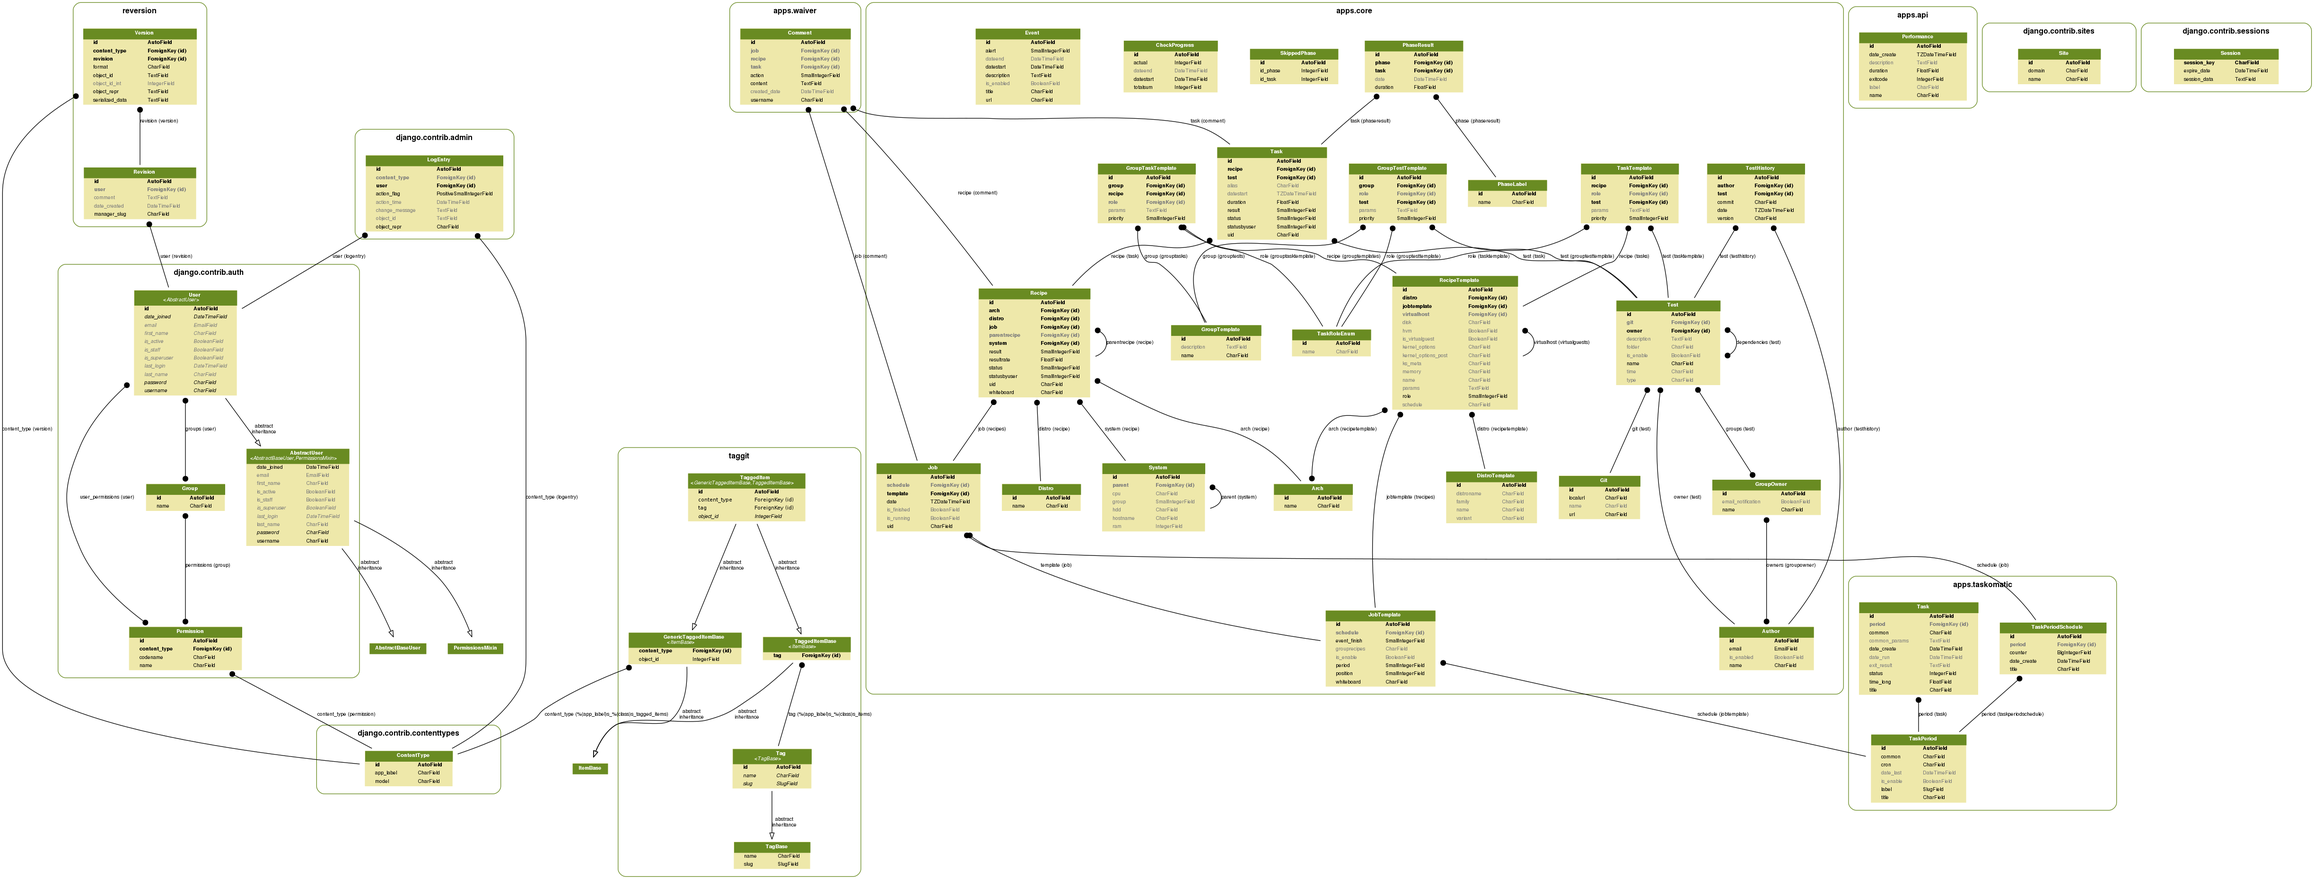
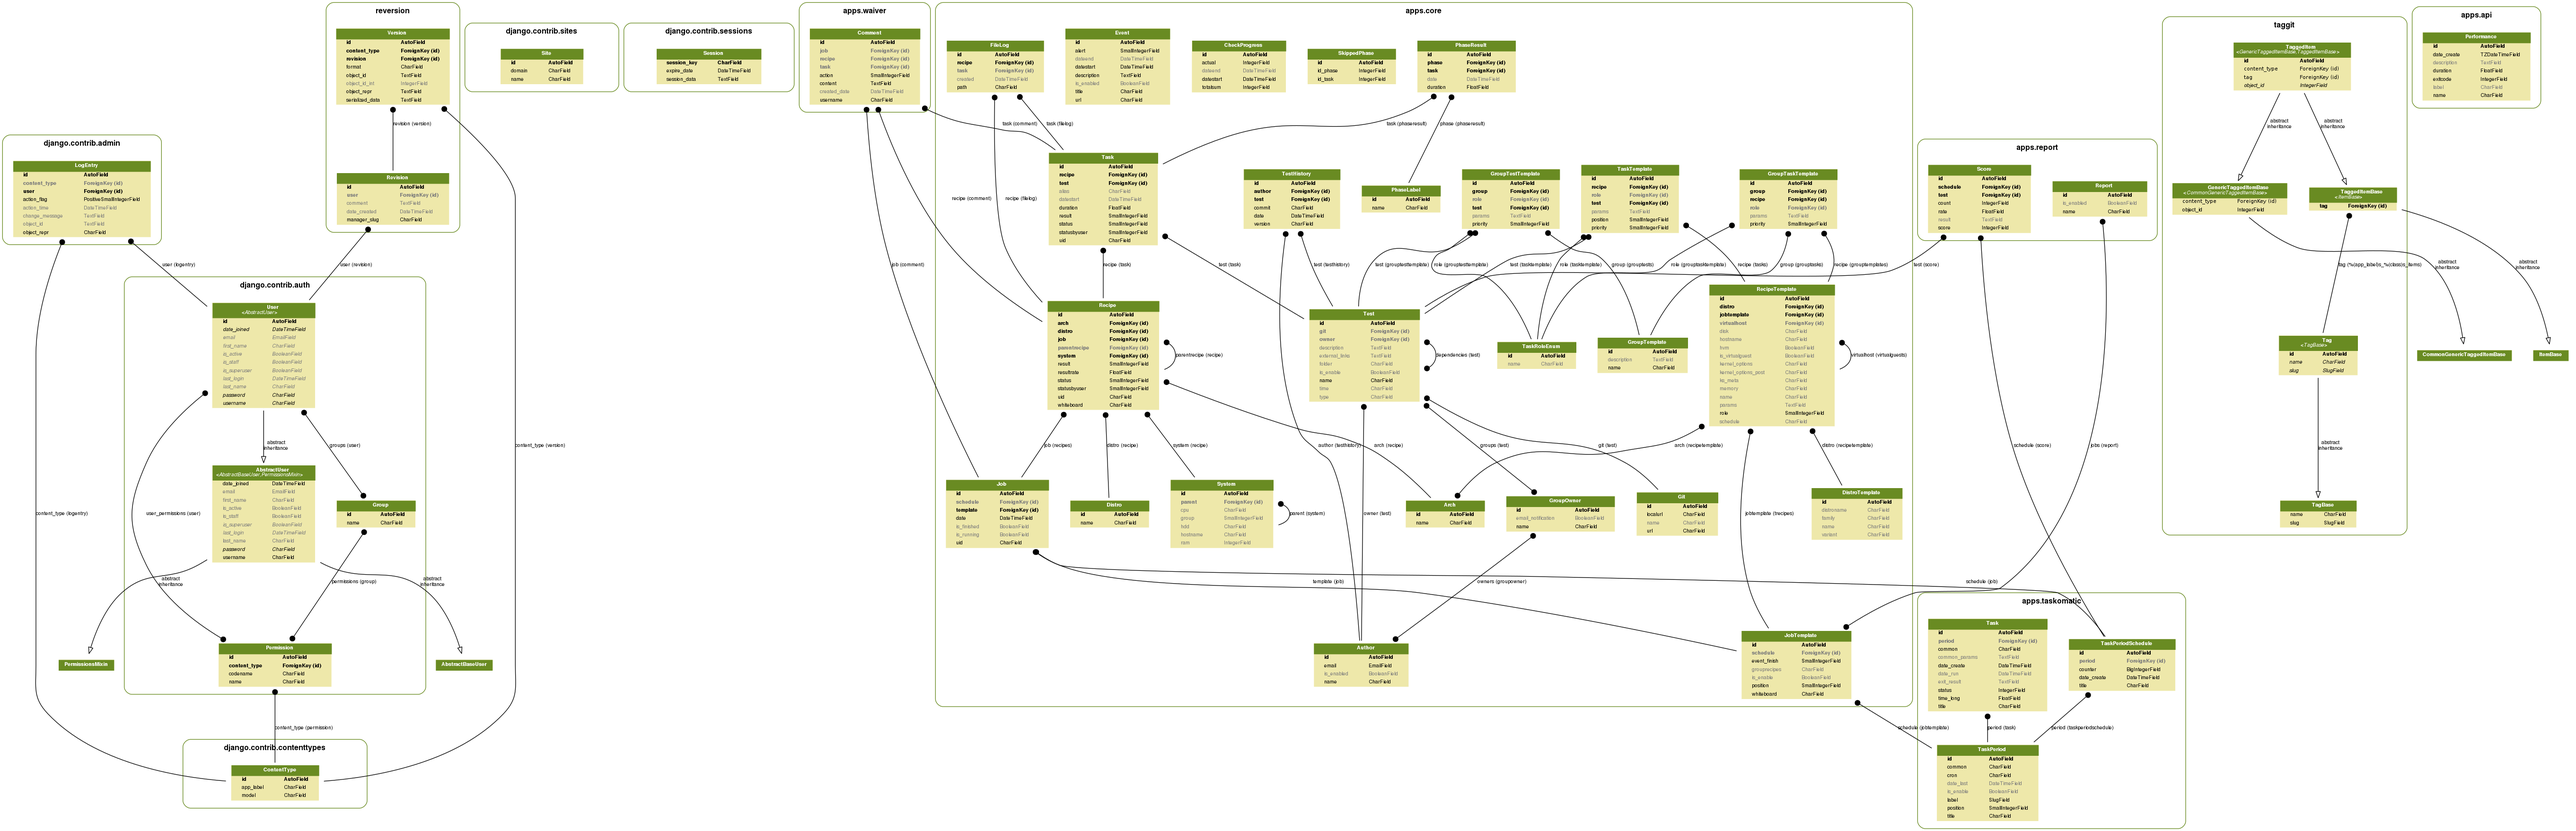
#62 worst test on homepage

diff --git a/tttt/templates/homepage.html b/tttt/templates/homepage.html
@@ -15,6 +15,39 @@
   </div>
 </div>
 
+{% if score %}
+<h1>Score </h1>
+<table class="table table-striped">
+    <tr>
+        <th>Test</th>
+        <th><a href="?order=score">Score</a></th>
+        <th><a href="?order=rate">Rate</a></th>
+        <th>Results</th>
+    </tr>
+    {% for it in score %}
+    <tr>
+      <td width="50%"><a href="{% url 'tests-list' %}?test_id={{it.test.id}}">{{it.test}}</a></td>
+      <td>{{it.score}}</td>
+      <td>{{it.rate|floatformat:2}}</td>
+      <td>
+        <div class="progress" style="height:20px">
+          <div class="progress-bar progress-bar-success" style="width: {{it.get_result.pass}}%">
+            <span class="sr-only">{{it.get_result.pass}}% Complete (success)</span>
+          </div>
+          <div class="progress-bar progress-bar-warning" style="width: {{it.get_result.warning}}%">
+            <span class="sr-only">{{it.get_result.warning}}% Complete (warning)</span>
+          </div>
+          <div class="progress-bar progress-bar-danger" style="width: {{it.get_result.fail}}%">
+            <span class="sr-only">{{it.get_result.fail}}% Complete (danger)</span>
+          </div>
+        </div>
+      </td>
+    </tr>
+    {% endfor %}
+</table>
+{% endif %}
+
+
 {% if networking %}
 <h1>Network <span style="color:red">(in progress)</span></h1>
 <table class="table table-striped">

diff --git a/apps/core/views/tests.py b/apps/core/views/tests.py
@@ -106,6 +106,8 @@ class TestsListView(TemplateView):
             self.filters['group_id'] = parameters.get('group')
         if 'email' in kwargs:
             self.filters['email'] = kwargs.get('email')
+        if 'test_id' in parameters:
+            self.filters['test_id'] = parameters.get('test_id')
         if 'search' in parameters:
             self.filters['email'] = None
             if self.forms['search'].is_valid():
@@ -207,6 +209,8 @@ class TestsListView(TemplateView):
             testFilter["git__id"] = self.filters.get('repo_id')
         if 'group_id' in self.filters:
             testFilter["groups__id"] = self.filters.get('group_id')
+        if 'test_id' in self.filters:
+            testFilter["id"] = self.filters.get('test_id')
         # Load all the Test-s
         # TODO: Why are we ordering these?
         # TODO: Cant we somehow limit this query to return only count of items
@@ -263,7 +267,7 @@ class TestsListView(TemplateView):
             'test__groups__name',
             'id', 'uid', 'result', 'status', 'statusbyuser', 'alias',
             'recipe__id', 'recipe__uid', 'recipe__status', 'recipe__resultrate', 'recipe__whiteboard', 'recipe__statusbyuser',
-            'recipe__arch__name',
+            'recipe__arch__name', 'recipe__result',
             'recipe__distro__name',
             'recipe__job__id', 'recipe__job__uid',
             'recipe__job__template__id', 'recipe__job__template__whiteboard', 'recipe__job__template__grouprecipes',
@@ -291,12 +295,14 @@ class TestsListView(TemplateView):
                         'data': {},
                     }
                 # Populate test's groups
-                if i.test.groups.name not in out_dict[i.test.id]['test__groups__name']:
+                if i.test.groups.name not in out_dict[
+                        i.test.id]['test__groups__name']:
                     out_dict[i.test.id]['test__groups__name'].append(
                         i.test.groups.name)
                 # Populate period schedules (because one test can run in 'Daily
                 # automation' and 'Weekly automation' and...)
-                if i.recipe.job.schedule.period_id not in out_dict[i.test.id]['data']:
+                if i.recipe.job.schedule.period_id not in out_dict[
+                        i.test.id]['data']:
                     title = ''
                     for p in periodschedules[i.recipe.job.schedule.period_id]:
                         if p['id'] == i.recipe.job.schedule.id:
@@ -307,7 +313,8 @@ class TestsListView(TemplateView):
                         'data': {},
                     }
                 # Popupate job (just general info common for more nightly runs)
-                if i.recipe.job.template.id not in out_dict[i.test.id]['data'][i.recipe.job.schedule.period_id]['data']:
+                if i.recipe.job.template.id not in out_dict[i.test.id][
+                        'data'][i.recipe.job.schedule.period_id]['data']:
                     out_dict[i.test.id]['data'][i.recipe.job.schedule.period_id]['data'][i.recipe.job.template.id] = {
                         'template__whiteboard': i.recipe.job.template.whiteboard,
                         'data': {},
@@ -323,18 +330,21 @@ class TestsListView(TemplateView):
                 }
                 recipe_matcher = render_label(
                     tmp, i.recipe.job.template.grouprecipes)
-                if recipe_matcher not in out_dict[i.test.id]['data'][i.recipe.job.schedule.period_id]['data'][i.recipe.job.template.id]['data']:
+                if recipe_matcher not in out_dict[i.test.id]['data'][
+                        i.recipe.job.schedule.period_id]['data'][i.recipe.job.template.id]['data']:
                     out_dict[i.test.id]['data'][i.recipe.job.schedule.period_id]['data'][i.recipe.job.template.id]['data'][recipe_matcher] = {
                         'data': {},
                     }
                 # Populate schedule
-                if i.recipe.job.schedule.id not in out_dict[i.test.id]['data'][i.recipe.job.schedule.period_id]['data'][i.recipe.job.template.id]['data'][recipe_matcher]['data']:
+                if i.recipe.job.schedule.id not in out_dict[i.test.id]['data'][i.recipe.job.schedule.period_id][
+                        'data'][i.recipe.job.template.id]['data'][recipe_matcher]['data']:
                     out_dict[i.test.id]['data'][i.recipe.job.schedule.period_id]['data'][i.recipe.job.template.id]['data'][recipe_matcher]['data'][i.recipe.job.schedule.id] = {
                         'counter': i.recipe.job.schedule.counter,
                         'data': {},
                     }
                 # Populate task (i.e. test run)
-                if i.id not in out_dict[i.test.id]['data'][i.recipe.job.schedule.period_id]['data'][i.recipe.job.template.id]['data'][recipe_matcher]['data'][i.recipe.job.schedule.id]['data']:
+                if i.id not in out_dict[i.test.id]['data'][i.recipe.job.schedule.period_id]['data'][
+                        i.recipe.job.template.id]['data'][recipe_matcher]['data'][i.recipe.job.schedule.id]['data']:
                     out_dict[i.test.id]['data'][i.recipe.job.schedule.period_id]['data'][i.recipe.job.template.id]['data'][recipe_matcher]['data'][i.recipe.job.schedule.id]['data'][i.id] = {
                         'uid': i.uid,
                         'result': i.get_result(),

diff --git a/apps/report/receivers.py b/apps/report/receivers.py
@@ -1,0 +1,39 @@
+
+import json
+
+from django.db.models import Count
+from django.db.models.signals import post_save
+from django.dispatch import receiver
+
+from apps.core.models import EnumResult, Task
+from models import Score
+
+
+@receiver(post_save, sender=Task)
+def recount_test_score(sender, **kwargs):
+    task = kwargs["instance"]
+    if not task.recipe.job.schedule:
+        return
+    results = Task.objects.filter(test=task.test,
+                                  recipe__job__schedule=task.recipe.job.schedule)\
+        .values("result")\
+        .annotate(count=Count('result')).order_by("result")
+
+    score, status = Score.objects.get_or_create(
+        test=task.test, schedule=task.recipe.job.schedule)
+
+    # count score
+    score.score = 0
+    score.count = 0
+    for it in results:
+        score.count += it["count"]
+        if EnumResult.PASS == it["result"]:
+            score.score += 2 * it["count"]
+        elif EnumResult.FAIL == it["result"]:
+            score.score -= 2 * it["count"]
+        elif EnumResult.WARN == it["result"]:
+            score.score -= 1 * it["count"]
+
+    score.rate = (score.score / float(score.count))
+    score.result = json.dumps(list(results))
+    score.save()

diff --git a/apps/report/models.py b/apps/report/models.py
@@ -4,12 +4,14 @@
 # Author: Pavel Studenik <pstudeni@redhat.com>
 # Year: 2016
 
+import json
+
 from django.db import models
 from django.db.models import Count
 
 from apps.core.models import (EnumResult, JobTemplate, RecipeTemplate, Task,
-                              TaskTemplate)
-from apps.taskomatic.models import TaskPeriodList
+                              TaskTemplate, Test)
+from apps.taskomatic.models import TaskPeriodList, TaskPeriodSchedule
 
 
 class Report(models.Model):
@@ -22,6 +24,23 @@ class Report(models.Model):
 
     def __unicode__(self):
         return "%s" % self.name
+
+
+class Score(models.Model):
+    test = models.ForeignKey(Test, db_index=True)
+    schedule = models.ForeignKey(TaskPeriodSchedule, db_index=True)
+    score = models.IntegerField(default=0)
+    rate = models.FloatField(default=0)
+    count = models.IntegerField(default=0)
+    result = models.TextField(blank=True)
+
+    def get_result(self):
+        result = json.loads(self.result)
+        data = {"count": self.count}
+        er = EnumResult()
+        for it in result:
+            data[er.get(it["result"])] = (it["count"] * 100) / self.count
+        return data
 
 
 class ReportList:

diff --git a/apps/report/migrations/0002_auto_20160401_1609.py b/apps/report/migrations/0002_auto_20160401_1609.py
@@ -1,0 +1,33 @@
+# -*- coding: utf-8 -*-
+from __future__ import unicode_literals
+
+from django.db import migrations, models
+
+
+class Migration(migrations.Migration):
+
+    dependencies = [
+        ('core', '0011_test_external_links'),
+        ('taskomatic', '0003_auto_20160105_1528'),
+        ('report', '0001_initial'),
+    ]
+
+    operations = [
+        migrations.CreateModel(
+            name='Score',
+            fields=[
+                ('id', models.AutoField(verbose_name='ID',
+                                        serialize=False, auto_created=True, primary_key=True)),
+                ('score', models.IntegerField(default=0)),
+                ('rate', models.FloatField(default=0)),
+                ('count', models.IntegerField(default=0)),
+                ('result', models.TextField(blank=True)),
+                ('schedule', models.ForeignKey(to='taskomatic.TaskPeriodSchedule')),
+                ('test', models.ForeignKey(to='core.Test')),
+            ],
+        ),
+        migrations.AlterModelOptions(
+            name='report',
+            options={'ordering': ['name']},
+        ),
+    ]

diff --git a/apps/core/views/homepage.py b/apps/core/views/homepage.py
@@ -10,7 +10,8 @@ from django.db.models import Count
 from django.views.generic import TemplateView
 
 from apps.core.models import CheckProgress, EnumResult, Task, TestHistory
-from apps.taskomatic.models import TaskPeriodSchedule
+from apps.report.models import Score
+from apps.taskomatic.models import TaskPeriodList, TaskPeriodSchedule
 from apps.waiver.models import Comment
 
 logger = logging.getLogger(__name__)
@@ -81,4 +82,9 @@ class HomePageView(TemplateView):
         context['hpaginator'] = paginator
 
         # context['networking'] = self.get_network_stas()
+        ids = [it["max_id"] for it in TaskPeriodList.last_runs()]
+        order = self.request.GET.get(
+            "order") if self.request.GET.get("order") else "score"
+        context["score"] = Score.objects.filter(
+            schedule__in=ids).order_by(order)[:10]
         return context

diff --git a/apps/core/models.py b/apps/core/models.py
@@ -81,6 +81,17 @@ def render_label(data, rule):
 
 
 class EnumResult:
+    UNKNOW = 0
+    ABOART = 1
+    WAIT = 2
+    WARN = 3
+    FAIL = 4
+    PASS = 5
+    NEW = 6
+    CANCEL = 7
+    SCHEDULED = 8
+    PANIC = 9
+    FAILINSTALL = 10
 
     def __init__(self):
         self.enums = dict(RESULT_CHOICES)
@@ -251,7 +262,9 @@ class Git(models.Model):
         if len(tests) == 0:
             self.__getLog().warning("repository %s is empty (0 tests)" % self.name)
         else:
-            self.__getLog().info("repository %s contiants %d tests" % (self.name, len(tests)))
+            self.__getLog().info(
+                "repository %s contiants %d tests" %
+                (self.name, len(tests)))
         for test in tests:
             if not test.folder:
                 self.__getLog().warning("The GIT folder for test '%s'"

diff --git a/apps/core/management/commands/beaker.py b/apps/core/management/commands/beaker.py
@@ -99,7 +99,8 @@ class BeakerCommand():
             self.scheduleByJobTemplates(
                 filter, "".join(label), fullInfo, simulate, reserver)
 
-    def scheduleByJobTemplates(self, filter, label, fullInfo, simulate, reserve):
+    def scheduleByJobTemplates(
+            self, filter, label, fullInfo, simulate, reserve):
         jobTs = JobTemplate.objects.filter(**filter).distinct()
         logger.info("%s JobTemplates are prepared." % len(jobTs))
         if fullInfo:
@@ -118,7 +119,7 @@ class BeakerCommand():
         schedule = TaskPeriodSchedule.objects.create(
             title=label,
             period=period,
-            counter=count + 1 if count != None else 0,
+            counter=count + 1 if count is not None else 0,
         )
 
         for jobT in jobTs:

diff --git a/apps/core/views/job_history.py b/apps/core/views/job_history.py
@@ -95,7 +95,8 @@ class JobHistoryView(TemplateView):
                 out_dict[task.recipe.job.schedule.period][task_recipe] = dict()
 
             # Create new task if needed
-            if task.test not in out_dict[task.recipe.job.schedule.period][task_recipe]:
+            if task.test not in out_dict[
+                    task.recipe.job.schedule.period][task_recipe]:
                 out_dict[task.recipe.job.schedule.period][
                     task_recipe][task.test] = dict()
 

diff --git a/apps/taskomatic/models.py b/apps/taskomatic/models.py
@@ -34,7 +34,8 @@ class TaskPeriodList:
 
     @staticmethod
     def last_runs():
-        return TaskPeriodSchedule.objects.values("period", "period__title").annotate(max_id=Max("id"), dcount=Count("period"))
+        return TaskPeriodSchedule.objects.values("period", "period__title").annotate(
+            max_id=Max("id"), dcount=Count("period"))
 
 
 class TaskPeriodSchedule(models.Model):

diff --git a/apps/report/__init__.py b/apps/report/__init__.py
@@ -1,0 +1,1 @@
+from receivers import recount_test_score
